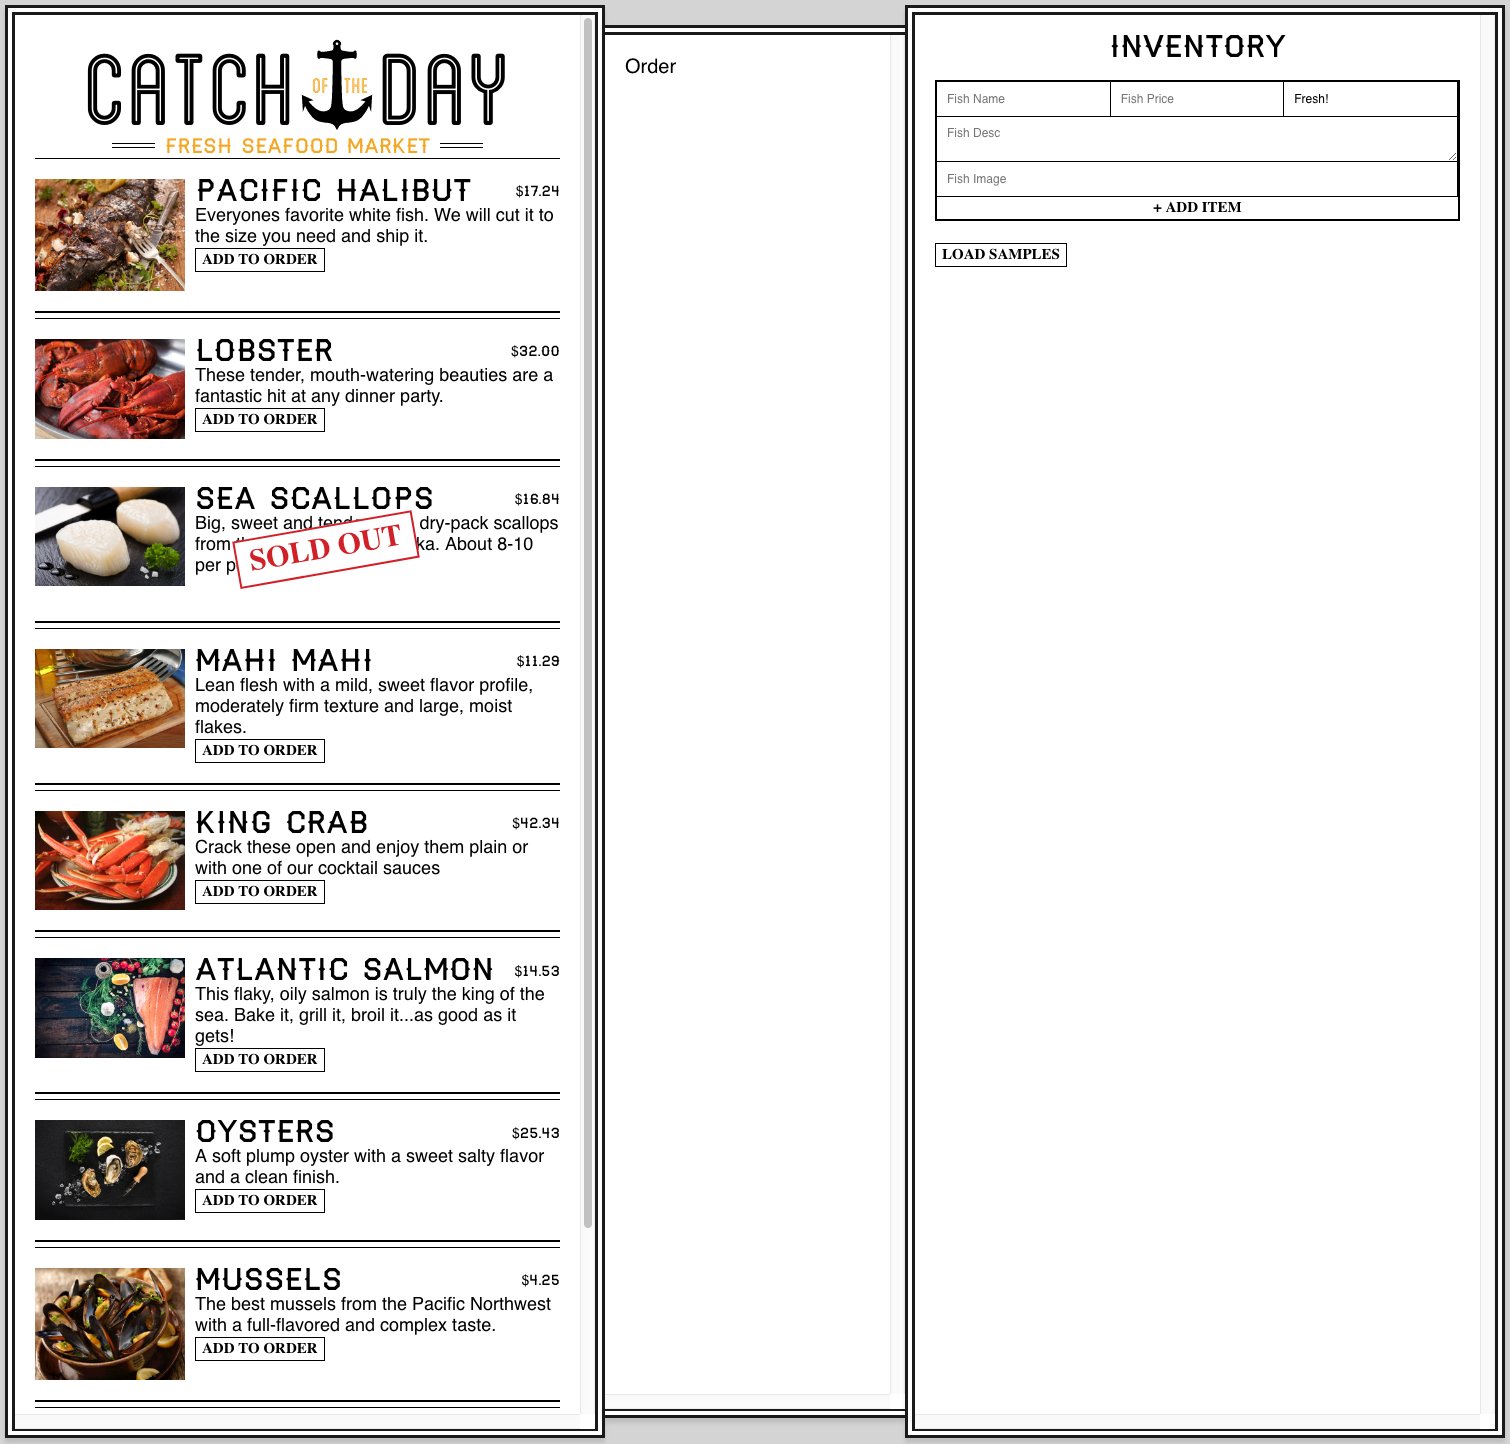
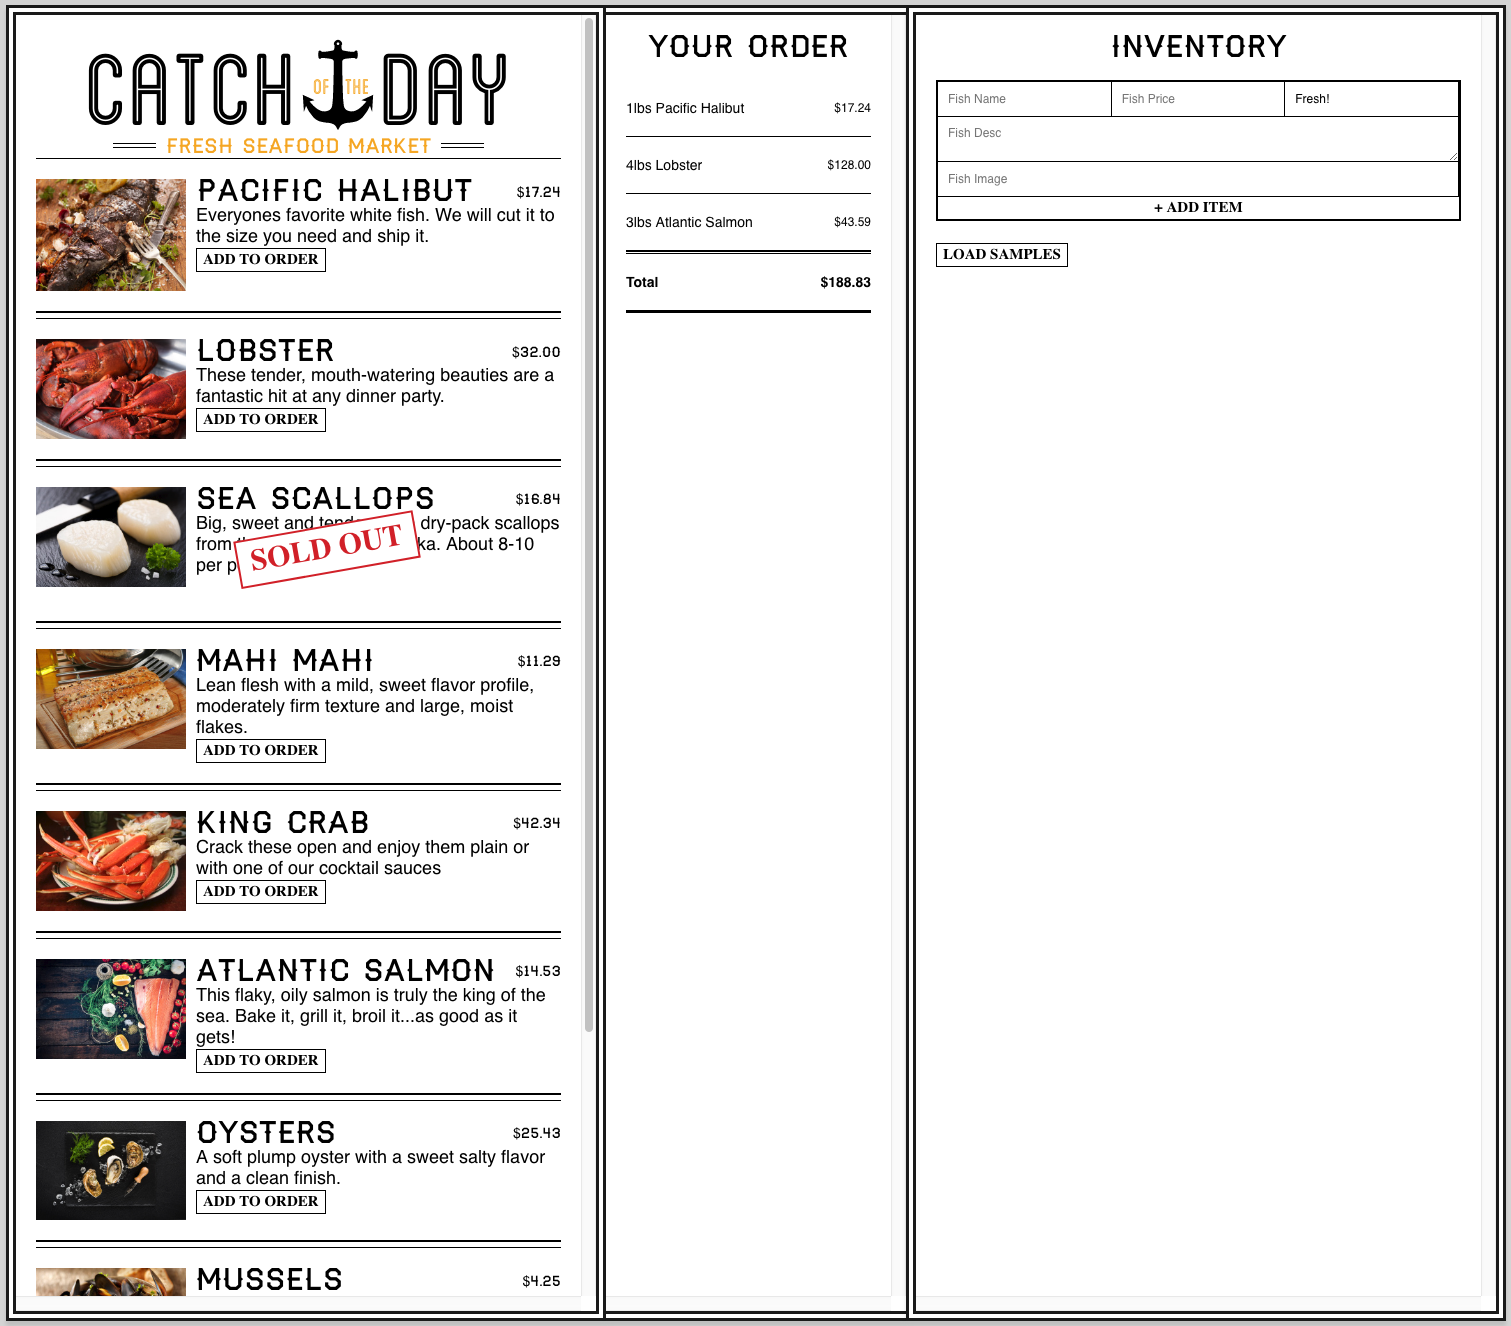
updated Order component to display ordered 🐠& total

Changed region(s): [[0.0, 0.0, 0.996, 1.0], [0.747, 0.1237, 0.8404, 0.1855]]

diff --git a/src/components/Order.js b/src/components/Order.js
@@ -1,9 +1,54 @@
 import React from 'react';
+import { formatPrice } from '../helpers';
 
 class Order extends React.Component{
-    render(){
+    constructor(){
+        super();
+        this.renderOrder = this.renderOrder.bind(this);
+    }
+
+    renderOrder(key){
+        const fish = this.props.fishes[key];
+        const count = this.props.order[key];
+
+        if(!fish || fish.status === 'unavailable'){
+            return <li key={key}>Sorry, {fish ? fish.name: 'fish'} is no longer available.</li>
+        }
+
         return(
-            <p>Order</p>
+            <li key={key}>
+                <span>{count}lbs {fish.name}</span>
+                <span className="price">
+                    {formatPrice(count * fish.price)}
+                </span>
+            </li>
+        )
+    }
+
+    render(){
+        const OrderIds = Object.keys(this.props.order);
+        const total = OrderIds.reduce((prevTotal, key) => {
+            const fish = this.props.fishes[key];
+            const count = this.props.order[key];
+            const isAvailable = fish && fish.status === 'available';
+
+            if(isAvailable){
+                return prevTotal + (count * fish.price || 0);
+            }
+
+            return prevTotal;
+        },0);
+        return(
+            <div className="order-WorkerEventMap">
+                <h2>Your Order</h2>
+                <ul className="order">
+                    {OrderIds.map(this.renderOrder)}
+                    <li className="total">
+                        <strong>Total</strong>
+                        {formatPrice(total)}
+                    </li>
+                </ul>
+            </div>
         )
     }
 }

diff --git a/src/components/App.js b/src/components/App.js
@@ -51,7 +51,7 @@ class App extends React.Component{
                         }
                     </ul>
                 </div>
-                <Order />
+                <Order fishes={this.state.fishes} order={this.state.order}/>
                 <Inventory loadSamples={this.loadSamples} addFish={this.addFish}/>
             </div>
         )
